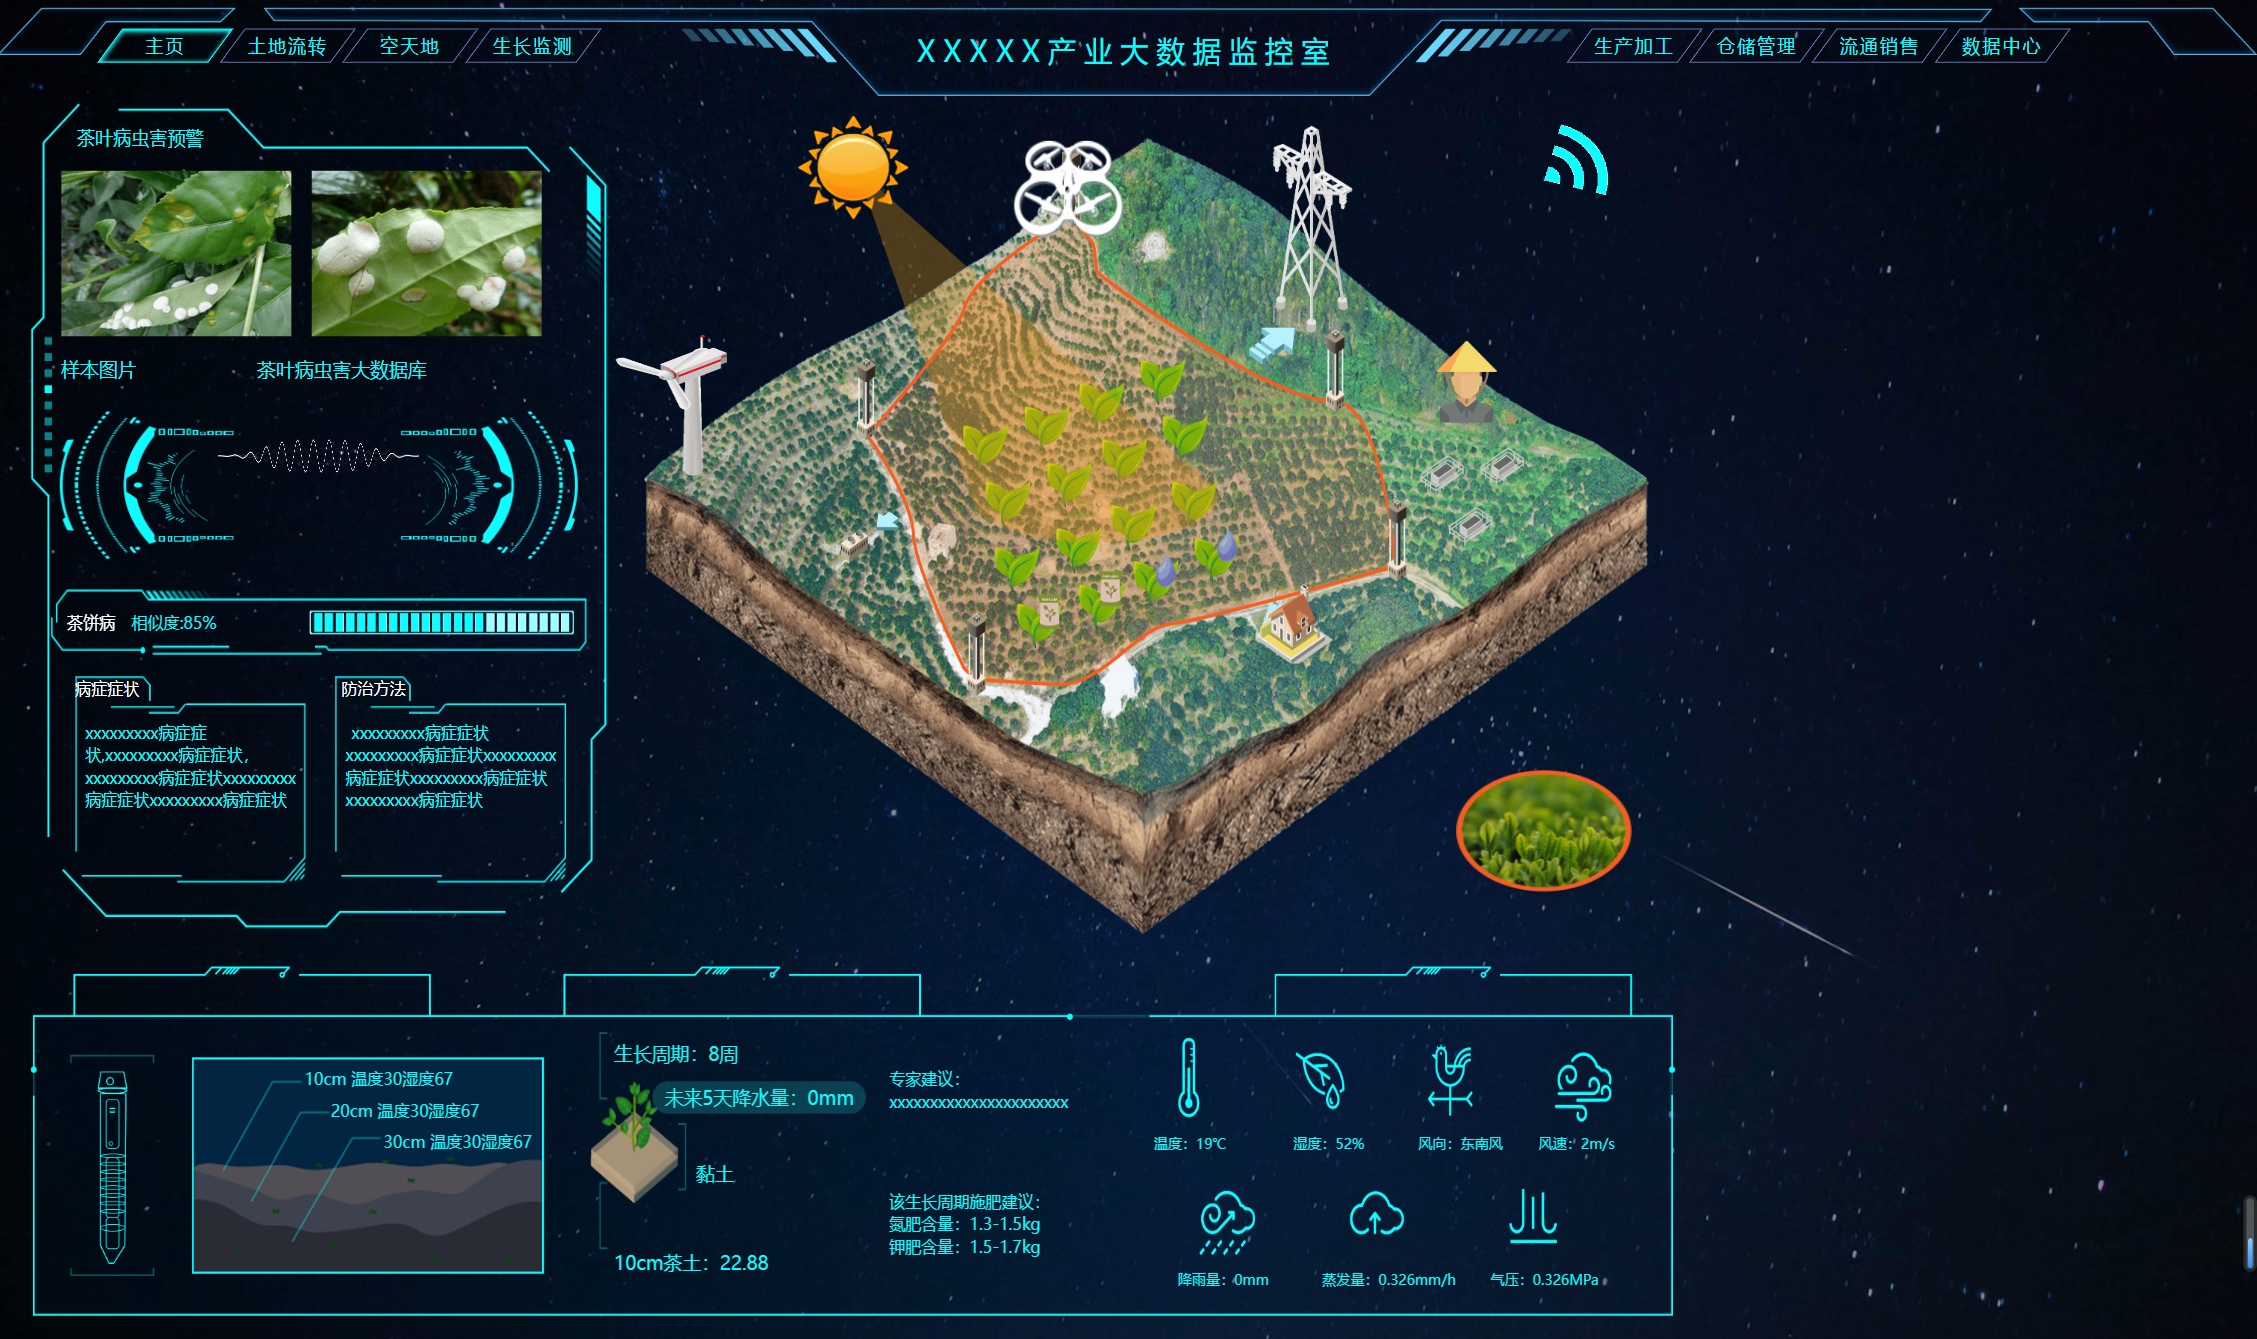
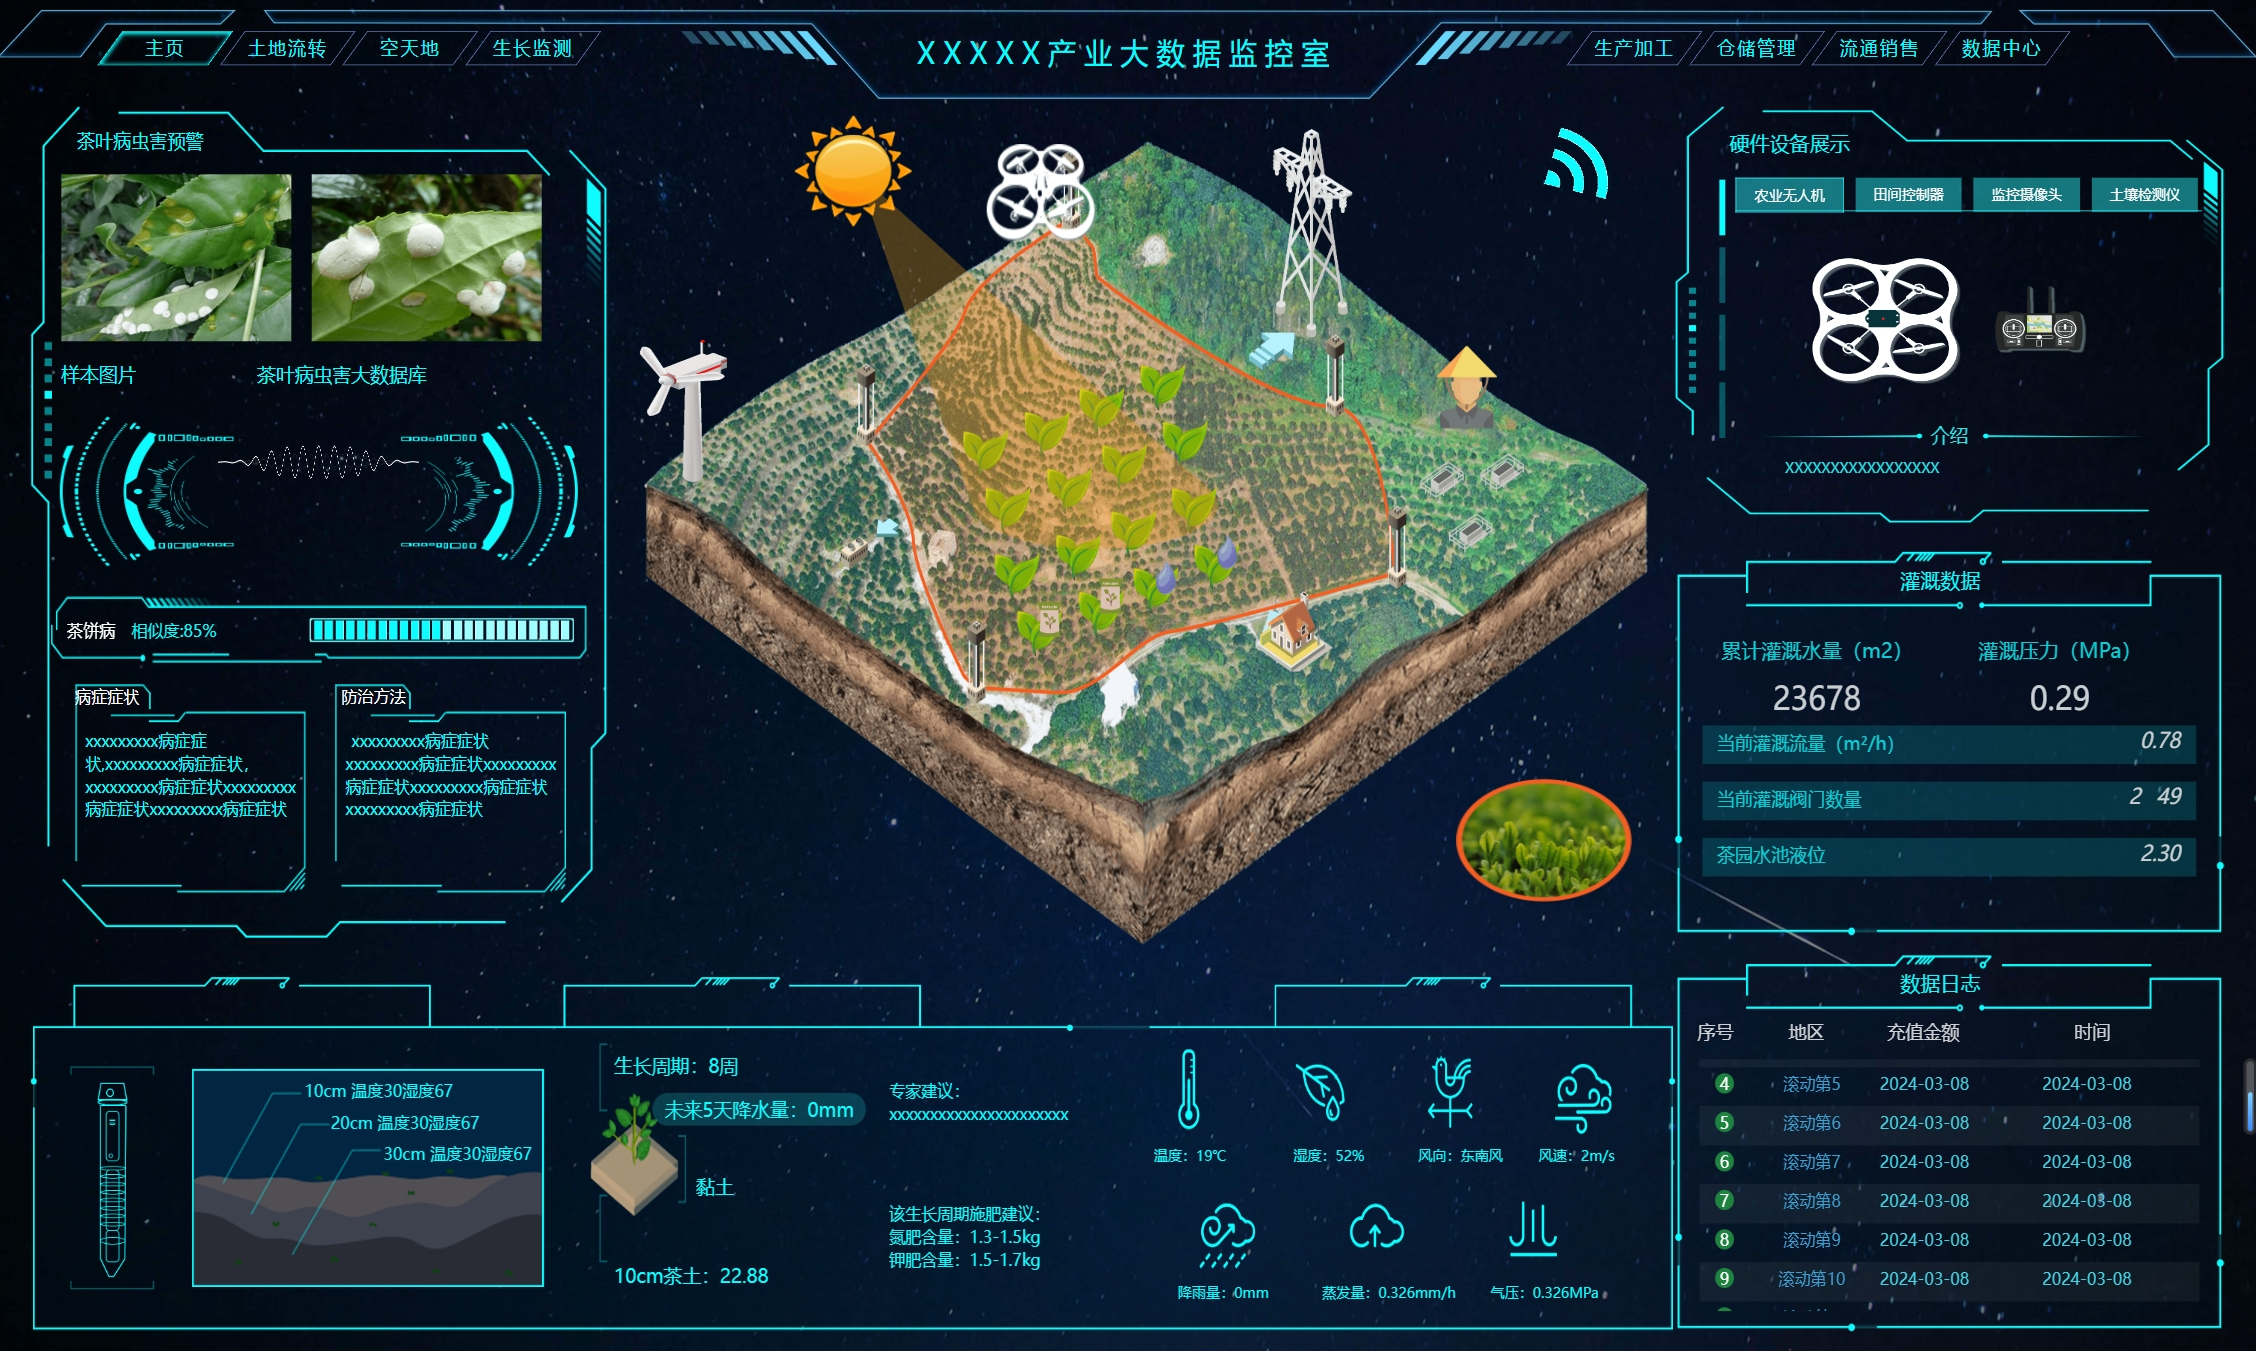
完成demo08

diff --git a/src/pages/bigScreen/demo08/index.vue b/src/pages/bigScreen/demo08/index.vue
@@ -153,13 +153,61 @@
                             </div>
                             <div class="liSpan">介绍</div>
                             <div class="liP">
-                            XXXXXXXXXXXXXXXXX</div>
+                                XXXXXXXXXXXXXXXXX</div>
                         </div>
                     </div>
                     <div class="right-center">
+                        <img src="../../../assets/images/icon/right2.png" alt="">
+                        <div class="boxTitle">灌溉数据</div>
+                        <div class="irrigate_data">
+                            <div class="irrigate_top">
+                                <div class="centerList">
+                                    <div class="centerListFont">累计灌溉水量（m2）</div>
+                                    <div class="centerListNum">
+                                        <span class="">23678</span>
+                                    </div>
+                                </div>
+                                <div class="centerList">
+                                    <div class="centerListFont">灌溉压力（MPa）</div>
+                                    <div class="centerListNum">
+                                        <span class="">0.29</span>
+                                    </div>
+                                </div>
+                            </div>
+                            <div class="irrigate_bottom">
+                                <div class="every_line">
+                                    <span>当前灌溉流量（m²/h）</span>
+                                    <i class="">0.78</i>
+                                </div>
+                                <div class="every_line">
+                                    <span>当前灌溉阀门数量</span>
+                                    <i class="counter-value">49</i>
+                                    <i class="counter-value">2</i>
+                                </div>
+                                <div class="every_line">
+                                    <span>茶园水池液位</span>
+                                    <i>2.30</i>
+                                </div>
+                            </div>
+                        </div>
                     </div>
                     <div class="right-bottom">
-
+                        <img src="../../../assets/images/icon/right3.png" alt="">
+                        <div class="boxTitle">数据日志</div>
+                        <div class="pth"> <span>序号</span> <span>地区</span> <span>充值金额</span> <span>时间</span> </div>
+                        <div class="wrap">
+                            <ul>
+                                <vue3-seamless-scroll :list="scrollData" class="scroll" :step="0.7">
+                                    <li v-for="(item, index) in scrollData" :key="index">
+                                        <p> <span><i>{{ index }}</i></span>
+                                            <span>{{ item.col1 }}</span>
+                                            <span>{{ item.col2 }}</span>
+                                            <span> {{ item.col3 }}</span>
+                                        </p>
+                                    </li>
+                                </vue3-seamless-scroll>
+                            </ul>
+                        </div>
                     </div>
                 </div>
             </div>
@@ -169,7 +217,11 @@
 
 <script setup lang="ts">
 import { ref, onMounted } from 'vue'
-import ScreenAdapter from '@/components/bigScreen/ScreenAdapter.vue';
+import ScreenAdapter from '@/components/bigScreen/ScreenAdapter.vue'
+import { Vue3SeamlessScroll } from "vue3-seamless-scroll"
+import { getData } from '@/pages/bigScreen/demo07/utils/scrollData'
+
+const scrollData = getData(10)
 
 let activeClass = ref('first')
 function togglePage(liName: string) {

diff --git a/src/pages/bigScreen/demo08/style/index.less b/src/pages/bigScreen/demo08/style/index.less
@@ -559,7 +559,6 @@
 }
 
 .right-top .hardware,
-.right-top img,
 .right-top img {
     position: absolute;
     width: 100%;
@@ -583,17 +582,17 @@
 
 /* 硬件设备展示start--- */
 .boxLis {
-    width: 100%;
+    width: 85%;
     z-index: 9999;
     height: 1.5vw;
-    margin-left: 3.5vw;
+    margin-left: 3vw;
     margin-top: 1vw;
     font-size: .7vw;
     border-bottom: .02vw solid rgb(40, 229, 233);
 }
 
 .boxLis>li {
-    width: 18%;
+    width: 22%;
     float: left;
     z-index: 9999;
     padding: .1vw;
@@ -673,16 +672,181 @@
 
 /* 硬件设备展示over--- */
 
-.content1 li {
-    display: none;
-}
-
 .right-center {
     width: 100%;
     height: 33%;
+    position: relative;
+}
+
+.right-center img {
+    position: absolute;
+    width: 100%;
+    height: 95%;
+    margin-top: 5%;
+}
+
+.right-center .boxTitle {
+    font-size: 1vw;
+    width: 38%;
+    margin-top: 2vw;
+    margin-left: 8vw;
+    display: inline-block;
+    text-align: center;
+    color: #0efcff;
+}
+
+.irrigate_data {
+    width: 100%;
+    height: 100%;
+    /* background-color: yellow; */
+}
+
+.centerList {
+    display: inline-block;
+    width: 37%;
+    height: 90%;
+    padding-top: 7%;
+    text-align: center;
+    margin-left: 2vw;
+}
+
+.centerListFont {
+    font-size: 1vw;
+    color: #0EFCFF;
+}
+
+.centerListNum {
+    font-size: 1.5vw;
+    color: white;
+    margin-top: .6vw;
+}
+
+.irrigate_bottom {
+    width: 100%;
+    height: 40%;
+    margin-top: .3vw;
+}
+
+.irrigate_bottom .every_line {
+    width: 90%;
+    height: 24%;
+    margin-left: 5%;
+    margin-bottom: 3%;
+    background-color: rgba(14, 252, 255, .2);
+}
+
+.every_line span {
+    color: #0EFCFF;
+    margin-left: .7vw;
+    font-size: .9vw;
+    margin-top: .2vw;
+    display: inline-block;
+}
+
+.every_line i {
+    color: #fff;
+    float: right;
+    margin-right: .8vw;
+    font-size: 1vw;
 }
 
 .right-bottom {
     width: 100%;
     height: 33%;
+    position: relative;
+}
+
+.right-bottom img {
+    position: absolute;
+    width: 100%;
+    height: 93.2%;
+    margin-top: 5%;
+}
+
+.right-bottom .boxTitle {
+    font-size: 1vw;
+    width: 38%;
+    margin-top: 2vw;
+    margin-left: 8vw;
+    display: inline-block;
+    text-align: center;
+    color: #0efcff;
+}
+
+.wrap {
+    height: 100%;
+    padding-left: 1.2vw;
+    padding-right: 1.2vw;
+    overflow: hidden;
+}
+
+.wrap li p {
+    font-size: 0;
+    line-height: 25px;
+    height: 100%;
+}
+
+.wrap li:nth-child(even) p {
+    background: rgba(255, 255, 255, .05)
+}
+
+.wrap li p span {
+    color: #44d3e4;
+    display: inline-block;
+    text-align: center;
+    font-size: .8vw;
+}
+
+.wrap li p span:nth-child(1),
+.pth span:nth-child(1) {
+    width: 10%
+}
+
+.wrap li p span:nth-child(2),
+.pth span:nth-child(2) {
+    width: 25%;
+    color: #3d9fd2;
+}
+
+.wrap li p span:nth-child(3),
+.pth span:nth-child(3) {
+    width: 20%
+}
+
+.wrap li p span:nth-child(4),
+.pth span:nth-child(4) {
+    width: 45%
+}
+
+.pth {
+    font-size: 0;
+    padding-top: 1vw;
+    padding-left: .7vw;
+    padding-right: .7vw;
+}
+
+.pth span {
+    color: #fff !important;
+    opacity: .8;
+    display: inline-block;
+    font-size: .9vw;
+    text-align: center;
+}
+
+.wrap li p span i {
+    background: #1f8340;
+    width: 16px;
+    height: 16px;
+    border-radius: 20px;
+    line-height: 16px;
+    text-align: center;
+    display: inline-block;
+    font-style: normal;
+    color: #fff;
+}
+
+.scroll {
+    height: 200px;
+    margin: .7vw auto;
+    overflow: hidden;
 }
